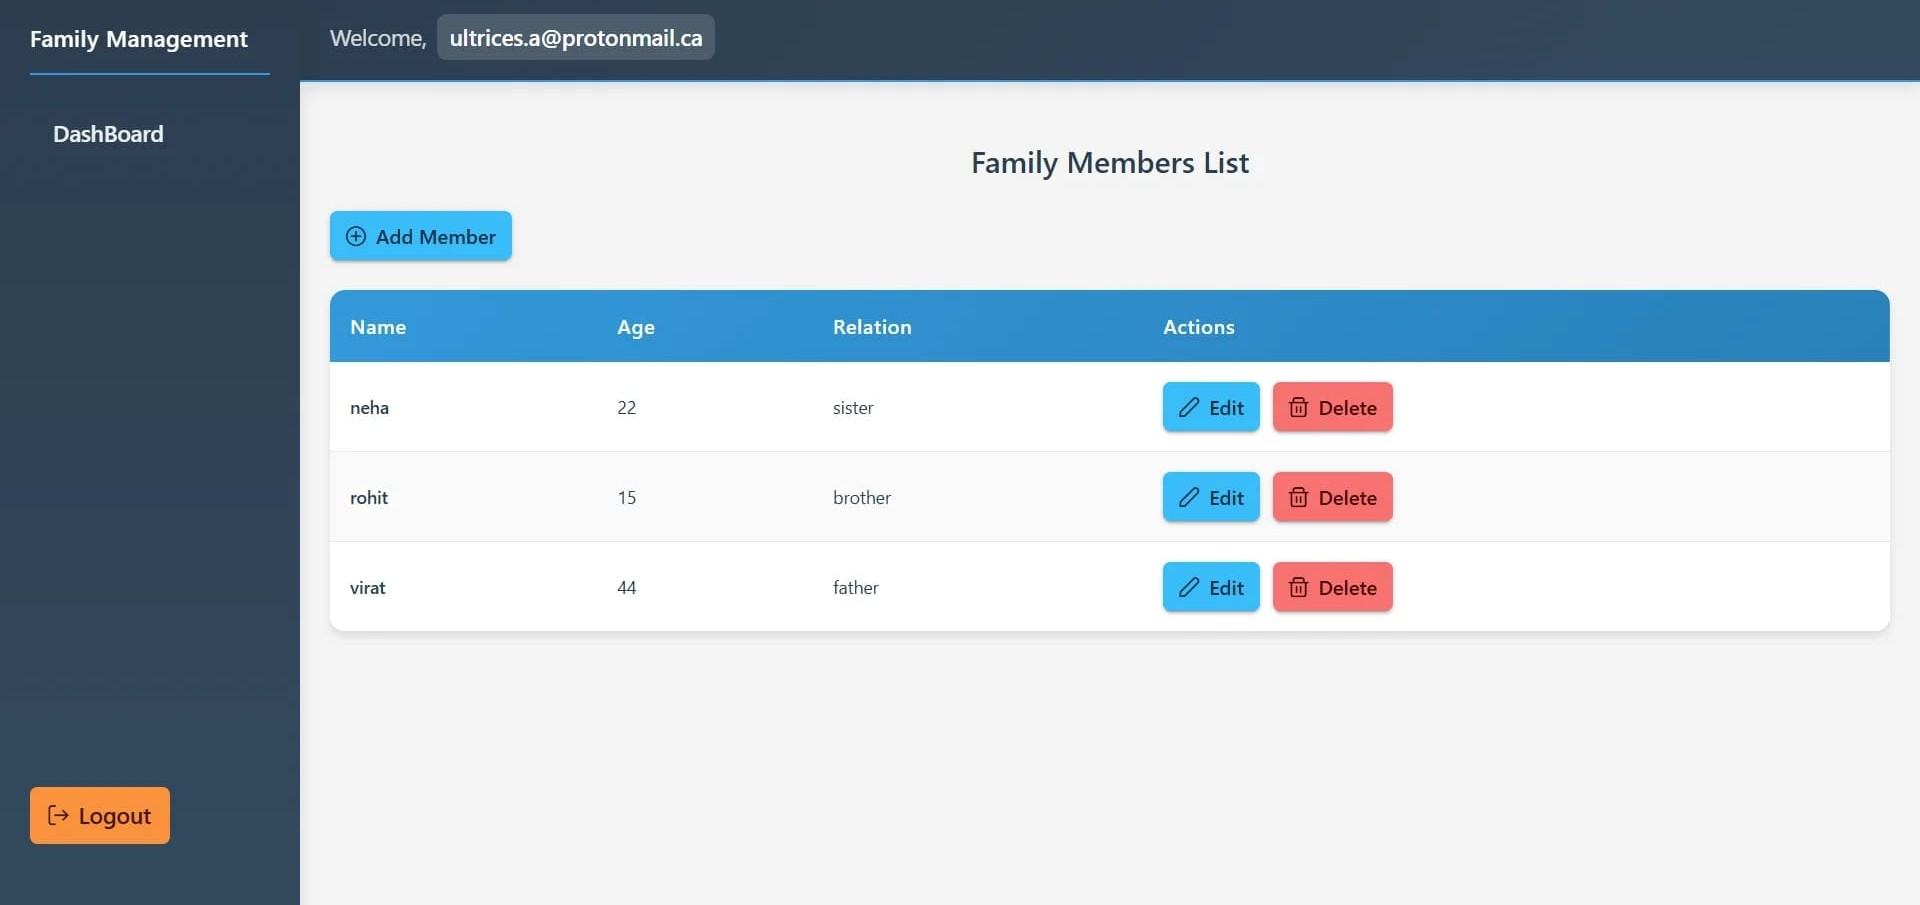
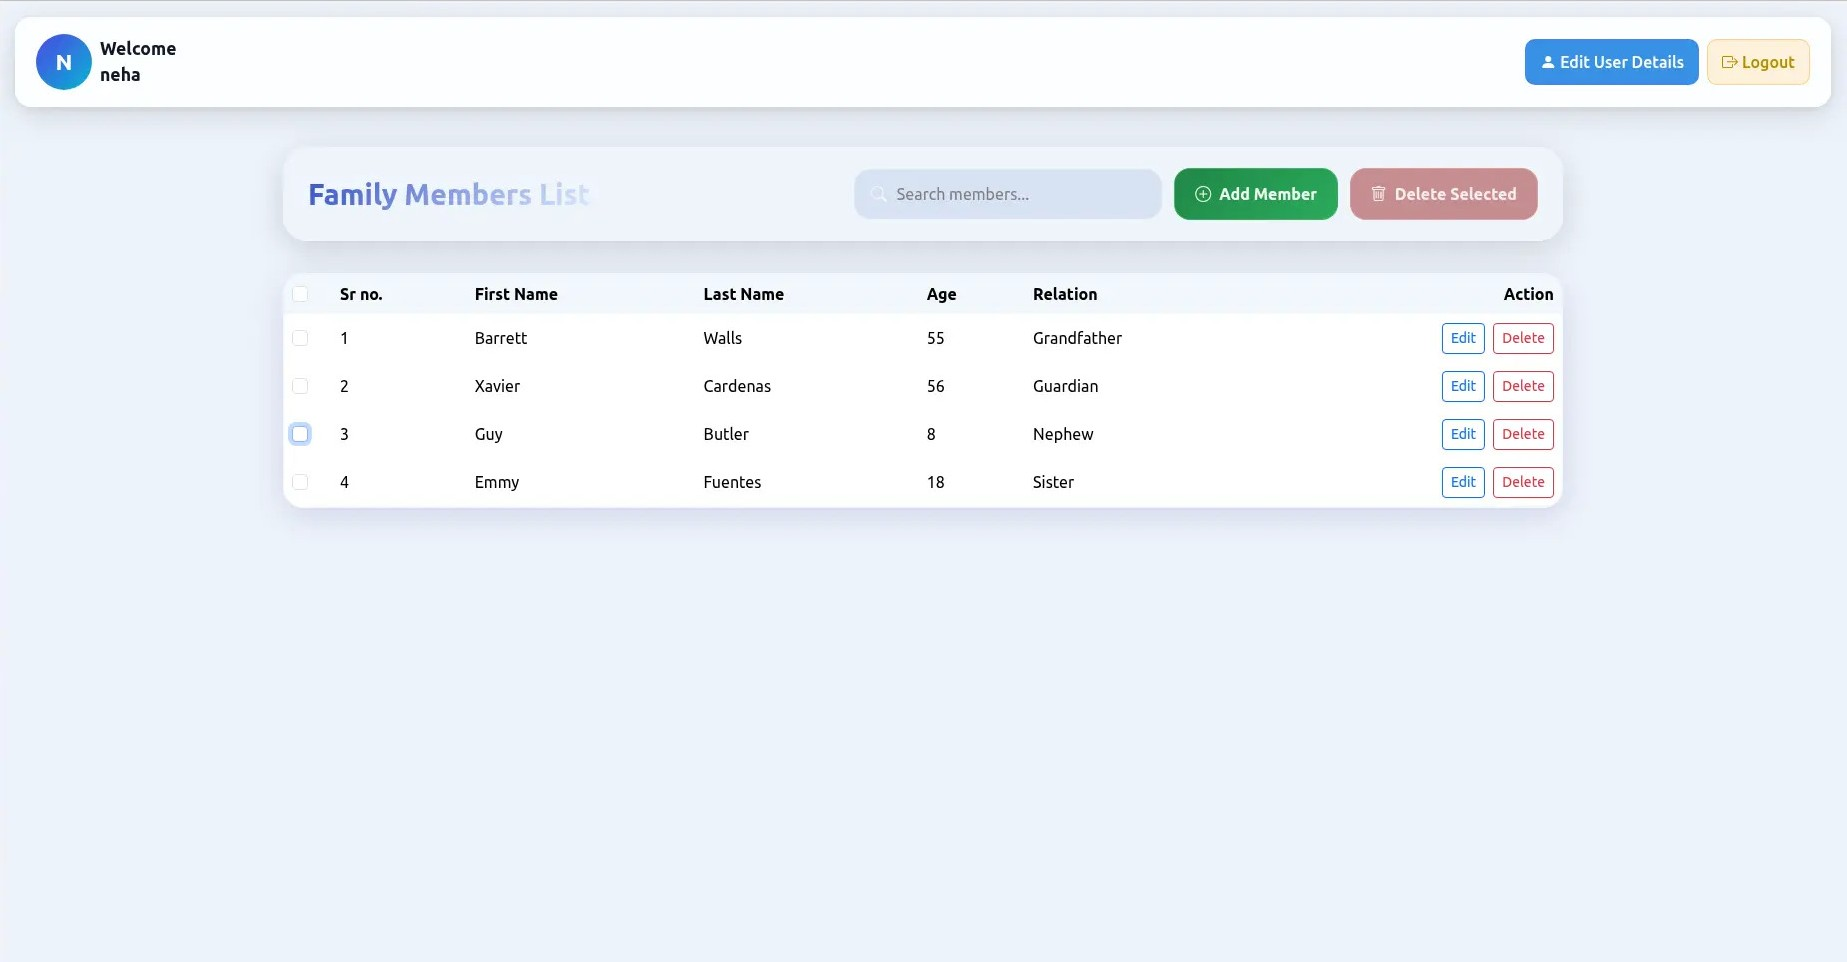
perf: implement content-visibility optimizations and migrate project styling to Bootstrap

diff --git a/public/project.html b/public/project.html
@@ -79,9 +79,33 @@
             </div>
         </div>
         <div class="project-grid">
-            <div class="project-card">
+            <div class="project-card optimize-visibility">
+                <div class="project-icon"><img src="family-management-app.jpg" loading="lazy" alt="image" width="100%">
+                </div>
+                <span class="badge">Web App</span>
+                <h3 class="project-title">Family Management App</h3>
+                <p class="project-desc"> A family management website with a clean, light, and classical theme. Used
+                    angular concepts like
+                    CRUD operations,
+                    services, guards, modules and components to create a seamless user experience. Applied features
+                    such as user authentication, Bootstrap css for better UI and FireBase for database and hosting.</p>
+                <div class="tech-stack">
+                    <span class="tech">Angular</span>
+                    <span class="tech">Firebase</span>
+                    <span class="tech">Bootstrap</span>
+                </div>
+                <div class="project-buttons">
+                    <a href="https://family-management-app-33038.web.app/login" class="btn-projects" target="_blank">
+                        <i class="fa-solid fa-arrow-up-right-from-square"></i></a>
+                    <a href="https://github.com/AARYA77-dev/family-management-app" class="btn-projects" target="_blank">
+                        <i class="fa-brands fa-github"></i>
+                    </a>
+                </div>
+            </div>
+            <div class="project-card optimize-visibility">
                 <div class="project-icon"><img src="carBrandsLocatorPic.jpg" loading="lazy" alt="image" width="100%">
                 </div>
+                        <span class="badge">Website</span>
                 <h3 class="project-title">Car Brands Locator</h3>
                 <p class="project-desc">Car brands locator web app that helps users find the main office locations of
                     various automobile brands.</p>
@@ -100,9 +124,10 @@
                 </div>
             </div>
 
-            <div class="project-card">
+            <div class="project-card optimize-visibility">
                 <div class="project-icon"><img src="keeunFoodWebsitePic.jpg" loading="lazy" alt="image" width="100%">
                 </div>
+                        <span class="badge">Static Page</span>
                 <h3 class="project-title">Keenu Meals</h3>
                 <p class="project-desc">Responsive frontend for a food ordering website with a clean, light, and
                     classical theme, optimized
@@ -122,7 +147,7 @@
                 </div>
             </div>
         </div>
-        <div class="featured-card">
+        <div class="featured-card optimize-visibility">
             <div class="featured-image" style="overflow: hidden;height: 230px;width: 100%;">
                 <img src="keenu-movies-android-app.jpg" loading="lazy" alt="image" height="100%" width="35%">
             </div>

diff --git a/public/index.html b/public/index.html
@@ -159,7 +159,7 @@
             </div>
         </div>
         <section class="skill-planet stacking-card">
-            <div id="three-container"></div>
+            <div id="three-container" class="optimize-visibility"></div>
             <div class="orbit-container">
                 <div class="core" onclick="scrollToHero()">AARYA</div>
                 <div class="orbit" id="orbit">
@@ -170,7 +170,7 @@
     </section>
     <section class="">
         <h2 class="project-maintitle animated-header">My Projects</h2>
-        <div class="featured-card-home stacking-card">
+        <div class="featured-card-home stacking-card optimize-visibility">
             <div class="featured-image"><img src="electronicWebsitePc.jpg" loading="lazy" alt="image" width="100%">
             </div>
             <div>
@@ -198,7 +198,7 @@
                 </div>
             </div>
         </div>
-        <div class="featured-card-home stacking-card">
+        <div class="featured-card-home stacking-card optimize-visibility">
             <div class="featured-image"><img src="family-management-app.jpg" loading="lazy" alt="image" width="100%">
             </div>
             <div>
@@ -207,13 +207,13 @@
                 <p class="project-desc">
                     A family management website with a clean, light, and classical theme. Used angular concepts like
                     CRUD operations,
-                    services, guards, modules and components to create a seamless user experience. Implemented features
-                    such as user authentication, PrimeNg for better UI and FireBase for database and hosting.
+                    services, guards, modules and components to create a seamless user experience. Applied features
+                    such as user authentication, Bootstrap css for better UI and FireBase for database and hosting.
                 </p>
                 <div class="tech-stack">
                     <span class="tech">Angular</span>
                     <span class="tech">Firebase</span>
-                    <span class="tech">PrimeNg</span>
+                    <span class="tech">Bootstrap</span>
                 </div>
                 <div class="project-buttons">
                     <a href="https://family-management-app-33038.web.app/login" class="btn-projects" target="_blank">
@@ -227,7 +227,7 @@
         <a class="contact-btn" href="project.html">More Projects <i style="margin: auto;"
                 class="fa-solid fa-arrow-right"></i></a>
     </section>
-    <section>
+    <section class="optimize-footer">
         <div class="card contact">
             <h1>Social Link</h1>
             <div class="social-icons">

diff --git a/public/style.css b/public/style.css
@@ -381,7 +381,7 @@ body:not(.dark) .skill-list {
 }
 
 body:not(.dark) .hero-card {
-    background: linear-gradient(135deg, #2563eb, #38bdf8);
+    background: var(--primary-blue);
     color: #ffffff;
 }
 
@@ -509,11 +509,6 @@ body:not(.dark) .project-icon {
     cursor: pointer;
     align-items: center;
     justify-content: center;
-}
-
-.menu-toggle:hover {
-    background: rgba(255, 255, 255, 0.2);
-    transform: translateY(-1px);
 }
 
 .resume-btn {
@@ -714,7 +709,7 @@ body:not(.dark) .project-icon {
 
 .animated-text span::before {
     content: "modern";
-    color: black;
+    color: var(--feature-text-color);
     font-weight: bolder;
     animation: words 20s infinite;
 }
@@ -727,15 +722,16 @@ body.dark .animated-text span::before {
     content: "";
     position: absolute;
     width: calc(100% + 8px);
-    background-color: var(--primary-blue);
+    background: var(--primary-blue);
     height: 100%;
-    border-left: 2px solid #1258ed;
+    border-left: 2px solid #ffffff;
     right: -8px;
     animation: cursor 0.8s steps(1) infinite, typing 20s steps(10) infinite
 }
 
 body.dark .animated-text span::after {
-    background-color: #1F2937;
+    background: #1F2937;
+    border-left-color: #1258ed;
 }
 
 @keyframes cursor {
@@ -840,10 +836,8 @@ nav,
     box-shadow: 0 20px 50px rgba(0, 0, 0, 0.3);
 }
 
-.card:hover,
 .featured-card-home:hover,
-.project-card:hover,
-.contact-card:hover {
+.project-card:hover {
     transform: translateY(-4px);
 }
 
@@ -1309,7 +1303,6 @@ body.dark .featured-card-home {
 
 .project-card {
     background: var(--primary);
-    ;
     padding: 22px;
     border-radius: var(--radius);
     box-shadow: 0 20px 40px rgba(0, 0, 0, 0.3);
@@ -1465,7 +1458,6 @@ body.dark .social-icon {
     padding: 0px 6px;
     background: black;
     box-shadow: 0 0 5px rgba(74, 144, 226, 0.6);
-    /* transform: translateY(-2px); */
     border-radius: 10px;
     border-color: #70aeff;
 }
@@ -1714,7 +1706,35 @@ textarea::-webkit-scrollbar-thumb:hover {
     }
 }
 
+
+/* --- RENDERING OPTIMIZATIONS --- */
+.optimize-visibility {
+    content-visibility: auto;
+}
+
+#three-container.optimize-visibility {
+    contain-intrinsic-size: auto 450px;
+}
+
+.project-card.optimize-visibility {
+    contain-intrinsic-size: auto 500px;
+}
+
+.featured-card.optimize-visibility {
+    contain-intrinsic-size: auto 360px;
+}
+
+.featured-card-home.optimize-visibility {
+    contain-intrinsic-size: auto 360px;
+}
+
+.optimize-footer {
+    content-visibility: auto;
+    contain-intrinsic-size: auto 150px;
+}
+
 @media (prefers-reduced-motion: reduce) {
+
     *,
     *::before,
     *::after {

diff --git a/public/contact.html b/public/contact.html
@@ -62,7 +62,7 @@
             </form>
         </div>
     </div>
-    <section>
+    <section class="optimize-footer">
         <div class="card contact">
             <h1>Social Link</h1>
             <div class="social-icons">
